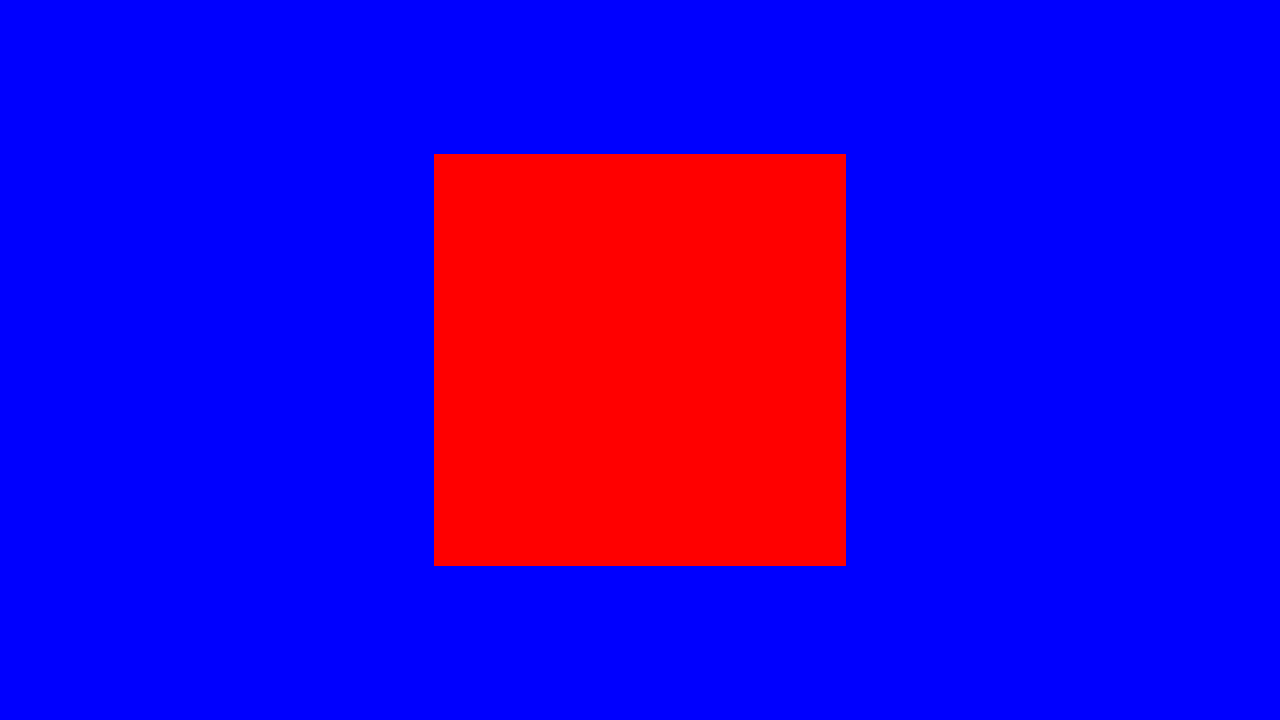
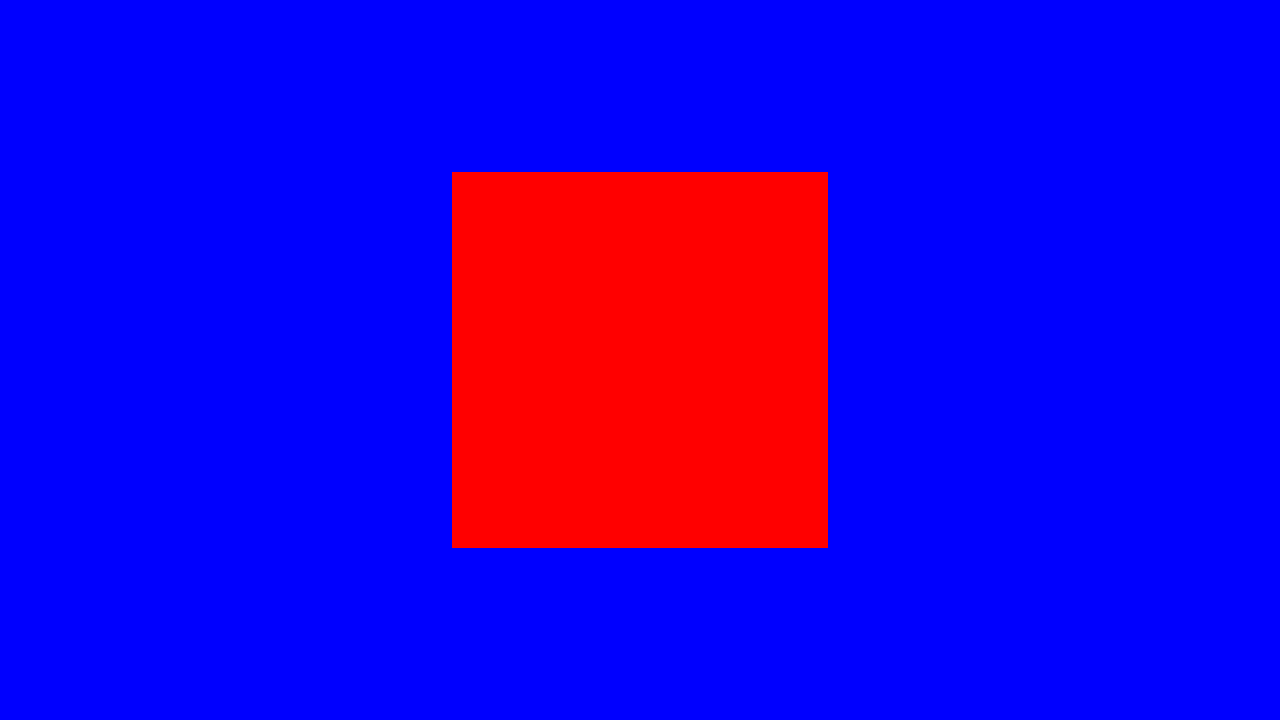
Headset mirror: steadying crops sideways only a little (4%); the lag limit keeps the black strip out instead of zooming in

Changed region(s): [[0.3125, 0.2139, 0.6875, 0.7944]]

diff --git a/layer/src/mirror.cpp b/layer/src/mirror.cpp
@@ -574,9 +574,10 @@ void HeadsetMirror::Frame(ID3D11Device* d, ID3D11DeviceContext* ctx, const std::
     bool steady = smoothing > 0.001f;
     float sideM = std::max(m, kSideMargin);
     if (steady) { // leave headroom round the crop so the steadied camera can lag without showing the picture's edges
-        // sideways around where the eye looks (cu), past the side margins; up and down past the small margin
-        const float hr = 0.07f;
-        float maxcx = std::max(0.2f, 2 * (std::min(cu, 1.f - cu) - sideM - hr)), maxcy = 1.f - 2 * (m + hr);
+        // Sideways only a little (the side margins are already wide): where the view sits off-centre the lag is
+        // limited on that side instead (below), so it stops at the margin rather than zooming everything in.
+        const float hr = 0.07f, hrSide = 0.04f;
+        float maxcx = 1.f - 2 * (sideM + hrSide), maxcy = 1.f - 2 * (m + hr);
         float s = std::min({ 1.f, maxcx / cw, maxcy / ch });
         cw *= s;
         ch *= s;

diff --git a/layer/test/test.cpp b/layer/test/test.cpp
@@ -2352,8 +2352,8 @@ int main(int argc, char** argv) {
                     return m.grabbed[(size_t)y * W + x] & 0xFFFFFF;
                 };
                 // quad: 0.2 m wide at 0.5 m with 45 degree half-angles -> 20% of the eye's width either side of the centre
-                // steadying (on by default) crops to 1 - 2 * (12% side margin + 7% headroom) of the eye's width
-                float cw = m.smoothing > 0.001f ? 1.f - 2 * (0.12f + 0.07f) : 1.f;
+                // steadying (on by default) crops to 1 - 2 * (12% side margin + 4% headroom) of the eye's width
+                float cw = m.smoothing > 0.001f ? 1.f - 2 * (0.12f + 0.04f) : 1.f;
                 int qx = (int)(W * 0.1f / cw);
                 CHECK(at(W / 2, Hh / 2) == 0xFF0000, "mirror: the panel shows in the middle, in front of the game");
                 CHECK(at(W / 2 + qx - 6, Hh / 2) == 0xFF0000 && at(W / 2 + qx + 6, Hh / 2) == 0x0000FF,
